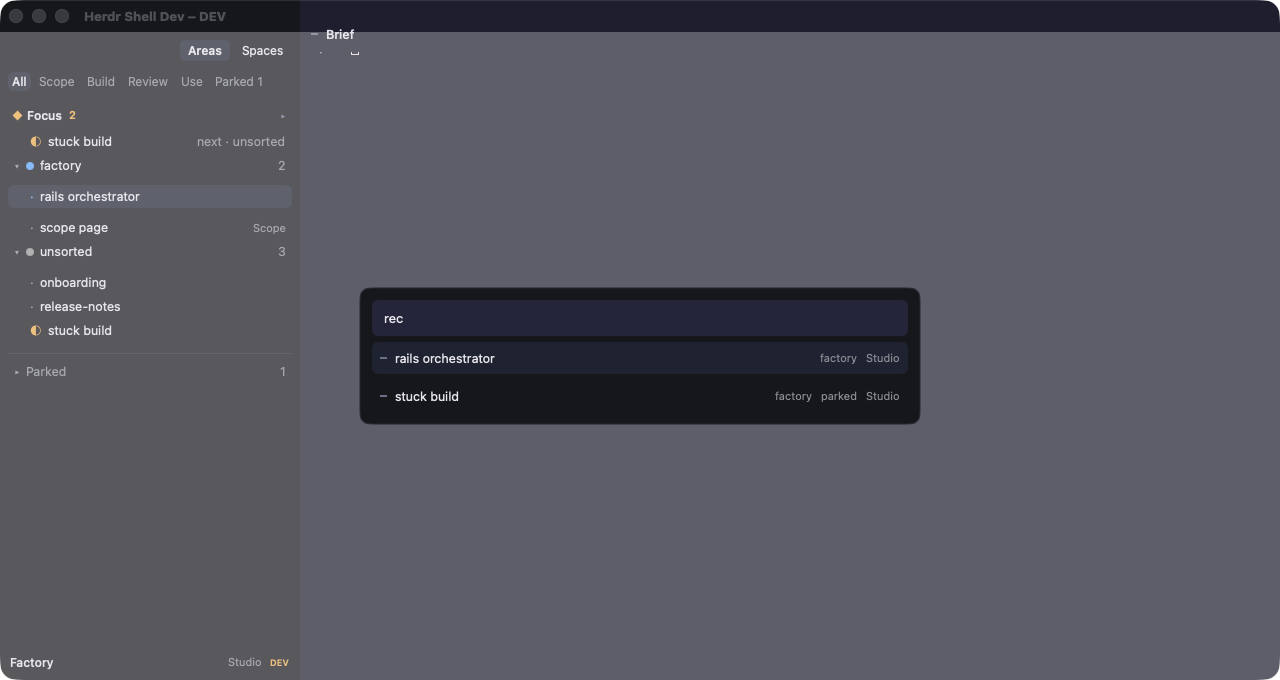
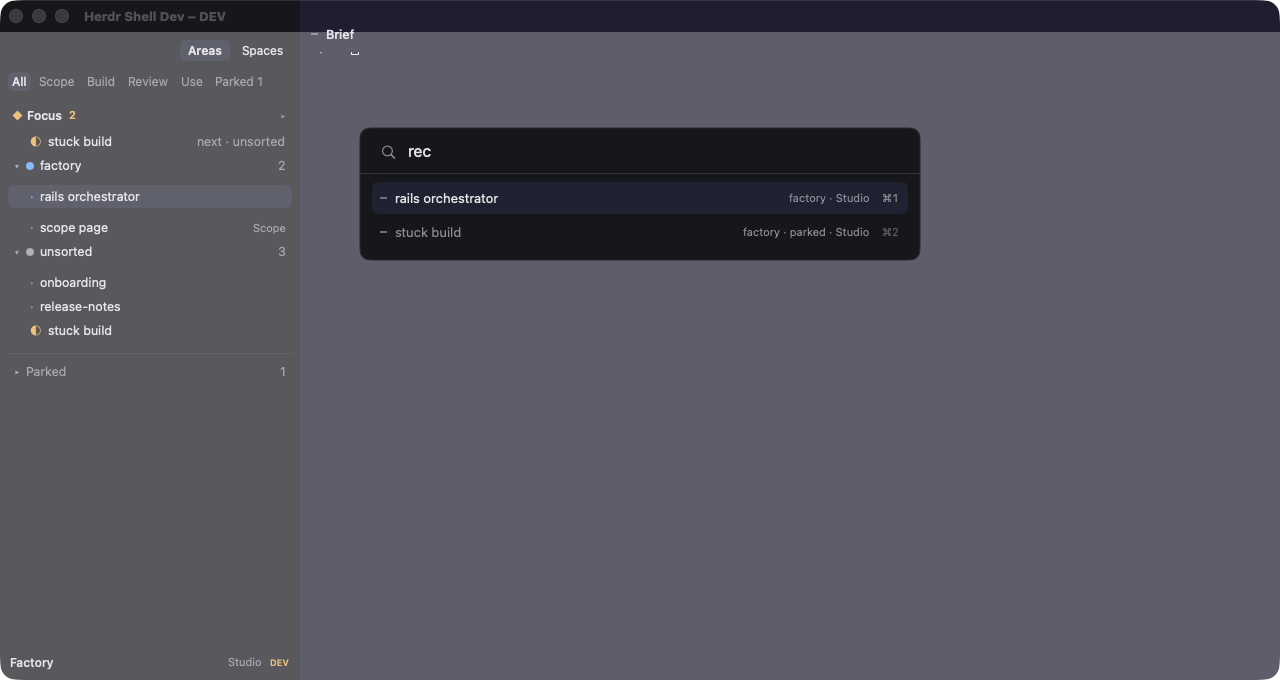
HerdrShell P28 design pass: switcher in the upper third, field flat on the panel, one meta line, ⌘n hints

Changed region(s): [[0.2812, 0.1853, 0.7188, 0.6485]]

diff --git a/macos/HerdrShell/Sources/HerdrShell/QuickSwitch.swift b/macos/HerdrShell/Sources/HerdrShell/QuickSwitch.swift
@@ -242,8 +242,11 @@ struct QuickSwitchPanel: View {
             t.ink.opacity(0.32)
                 .contentShape(Rectangle())
                 .onTapGesture { model.dismiss() }
-            VStack(alignment: .leading, spacing: 6) {
+            VStack(alignment: .leading, spacing: 2) {
                 field(t)
+                Rectangle().fill(t.mute.opacity(0.25)).frame(height: 1)
+                    .padding(.horizontal, -12)
+                    .padding(.bottom, 6)
                 let rows = model.visible
                 if rows.isEmpty {
                     Text("No matches")
@@ -253,7 +256,7 @@ struct QuickSwitchPanel: View {
                         .padding(.bottom, 6)
                 } else {
                     ForEach(Array(rows.enumerated()), id: \.element.id) { i, row in
-                        rowView(row, on: i == model.cursor, tokens: t)
+                        rowView(row, index: i, on: i == model.cursor, tokens: t)
                             .contentShape(Rectangle())
                             .onTapGesture { model.pick(i + 1) }
                     }
@@ -262,51 +265,52 @@ struct QuickSwitchPanel: View {
             .padding(12)
             .frame(width: 560)
             .background(OverlayBackground(theme: theme, corner: 10))
+            // Upper third, like Spotlight: the list grows down from a fixed field.
+            .frame(maxWidth: .infinity, maxHeight: .infinity, alignment: .top)
+            .padding(.top, 96)
         }
         .frame(maxWidth: .infinity, maxHeight: .infinity)
     }
 
     private func field(_ t: Tokens) -> some View {
         let shown = model.query.isEmpty ? "Jump to a lane, agent, or tab" : model.query
-        return Text(shown)
-            .font(.system(size: 13))
-            .foregroundStyle(model.query.isEmpty ? t.mute : t.ink)
-            .lineLimit(1)
-            .padding(.horizontal, 4)
-            .padding(.vertical, 2)
-            .background(RoundedRectangle(cornerRadius: 4).fill(model.selectAll && !model.query.isEmpty ? t.sel : Color.clear))
-            .frame(maxWidth: .infinity, alignment: .leading)
-            .padding(8)
-            .background(RoundedRectangle(cornerRadius: 6).fill(t.field))
+        // The field sits straight on the panel; a hairline below it, no inner box.
+        return HStack(spacing: 8) {
+            Image(systemName: "magnifyingglass")
+                .font(.system(size: 14))
+                .foregroundStyle(t.mute)
+            Text(shown)
+                .font(.system(size: 16))
+                .foregroundStyle(model.query.isEmpty ? t.mute : t.ink)
+                .lineLimit(1)
+                .padding(.horizontal, 2)
+                .background(RoundedRectangle(cornerRadius: 4).fill(model.selectAll && !model.query.isEmpty ? t.sel : Color.clear))
+        }
+        .frame(maxWidth: .infinity, alignment: .leading)
+        .padding(.horizontal, 8)
+        .padding(.top, 2)
+        .padding(.bottom, 10)
     }
 
-    private func rowView(_ row: QuickSwitch.Row, on: Bool, tokens t: Tokens) -> some View {
-        HStack(spacing: 8) {
+    private func rowView(_ row: QuickSwitch.Row, index: Int, on: Bool, tokens t: Tokens) -> some View {
+        let state = row.parked ? "parked" : row.badge
+        let meta = [row.workspace, state, row.host].filter { !$0.isEmpty }.joined(separator: " · ")
+        return HStack(spacing: 8) {
             StateGlyph(state: row.glyph, tokens: t)
             Text(row.label)
-                .font(.system(size: 12.5))
-                .foregroundStyle(t.ink)
+                .font(.system(size: 13))
+                .foregroundStyle(row.parked ? t.mute : t.ink)
                 .lineLimit(1)
                 .layoutPriority(1)
             Spacer(minLength: 8)
-            Text(row.workspace)
+            Text(meta)
                 .font(.system(size: 11))
                 .foregroundStyle(t.mute)
                 .lineLimit(1)
-            if row.parked {
-                Text("parked")
-                    .font(.system(size: 11))
-                    .foregroundStyle(t.mute)
-            } else if !row.badge.isEmpty {
-                Text(row.badge)
-                    .font(.system(size: 11))
-                    .foregroundStyle(t.mute)
-                    .lineLimit(1)
-            }
-            Text(row.host)
-                .font(.system(size: 11))
-                .foregroundStyle(t.mute)
-                .lineLimit(1)
+            Text("⌘\(index + 1)")
+                .font(.system(size: 11).monospacedDigit())
+                .foregroundStyle(t.mute.opacity(on ? 1 : 0.6))
+                .frame(width: 22, alignment: .trailing)
         }
         .padding(.horizontal, 8)
         .frame(height: 32)
